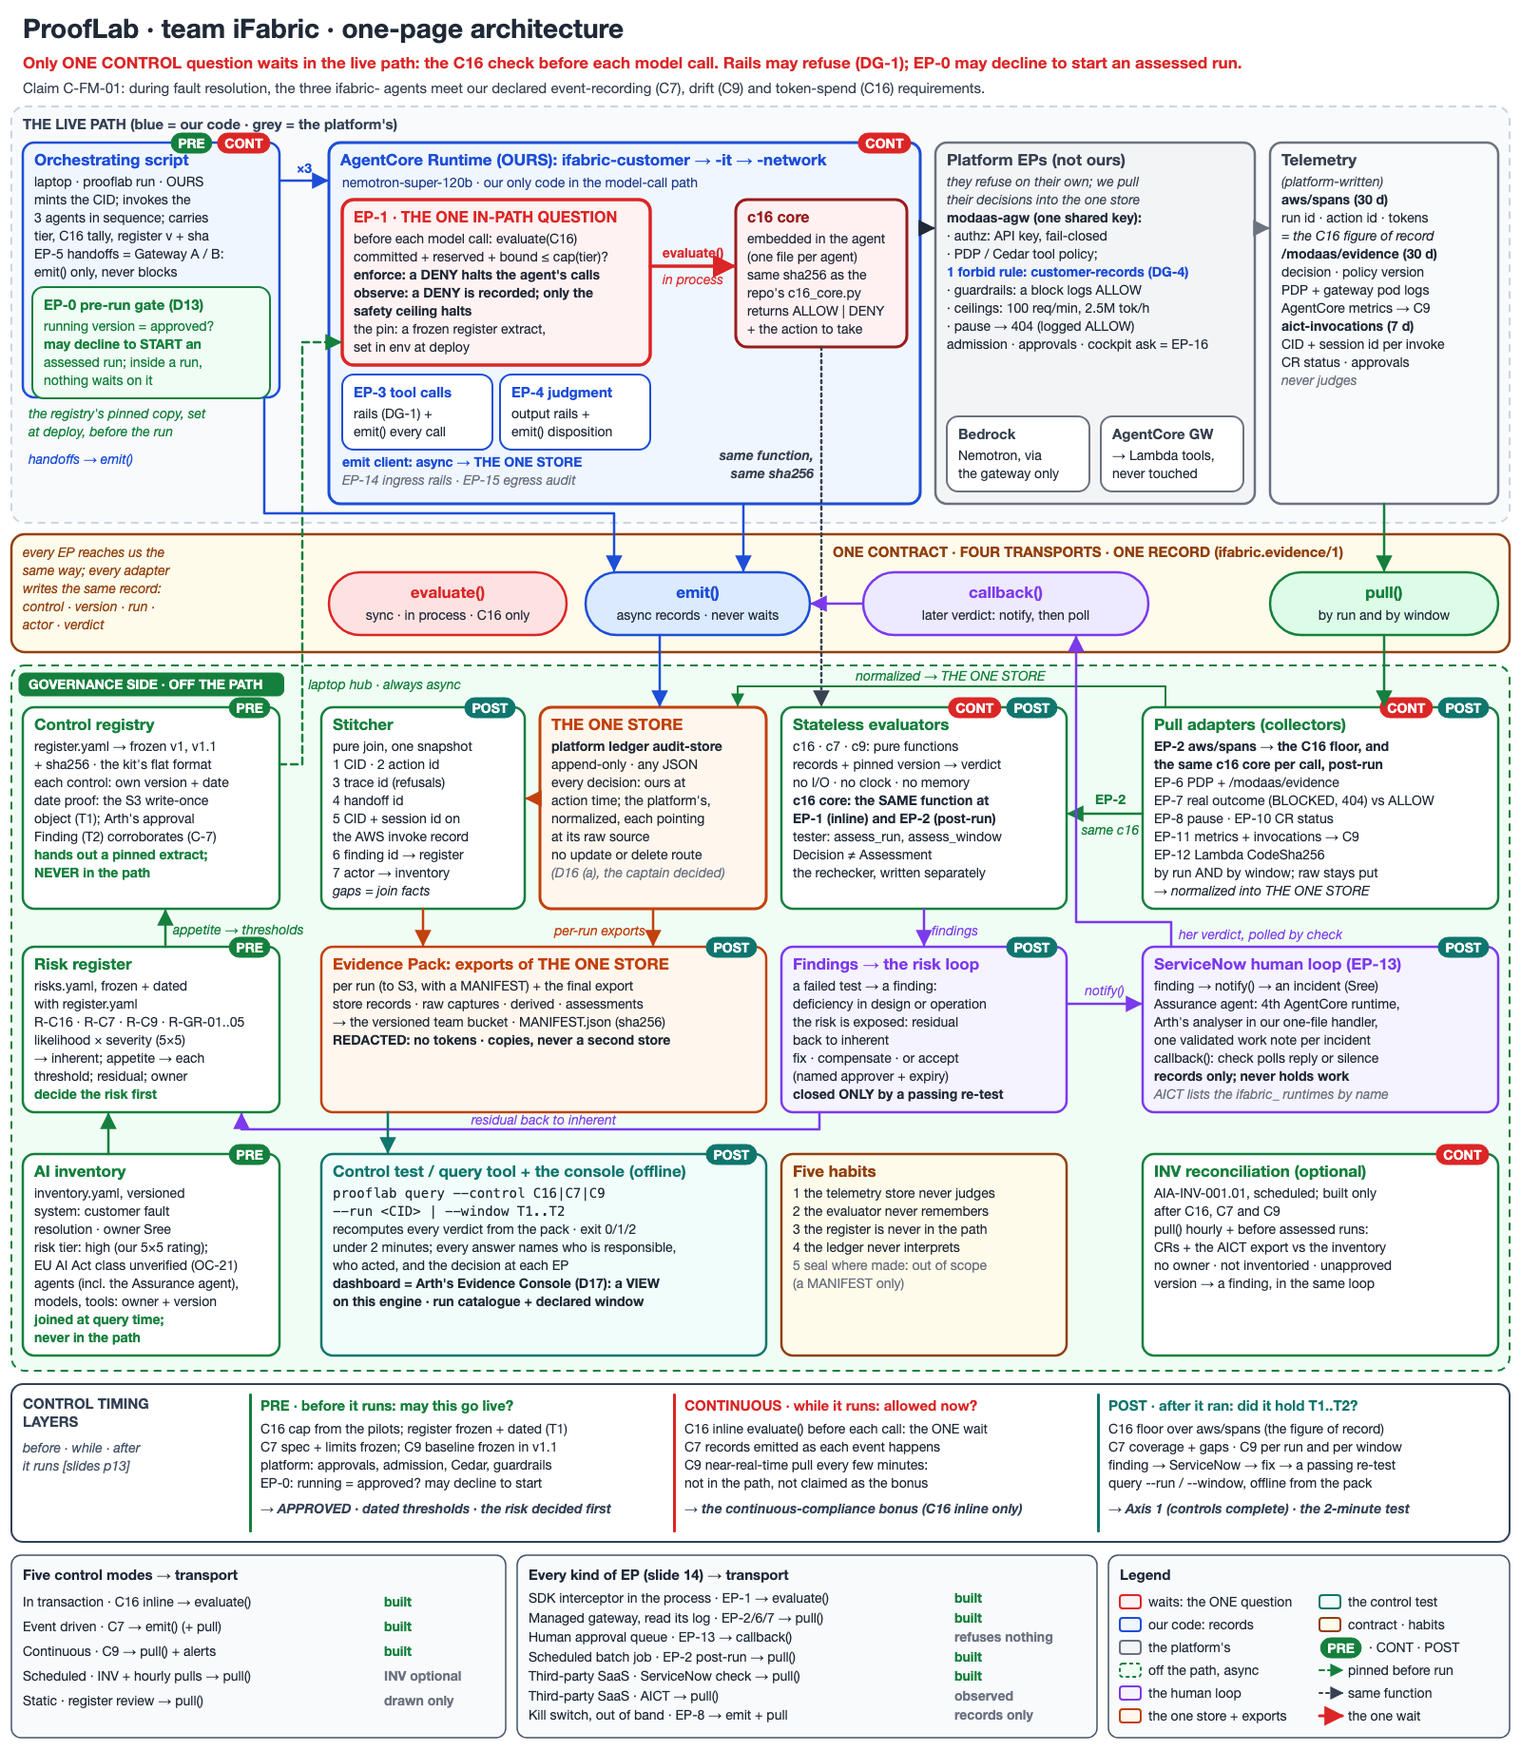
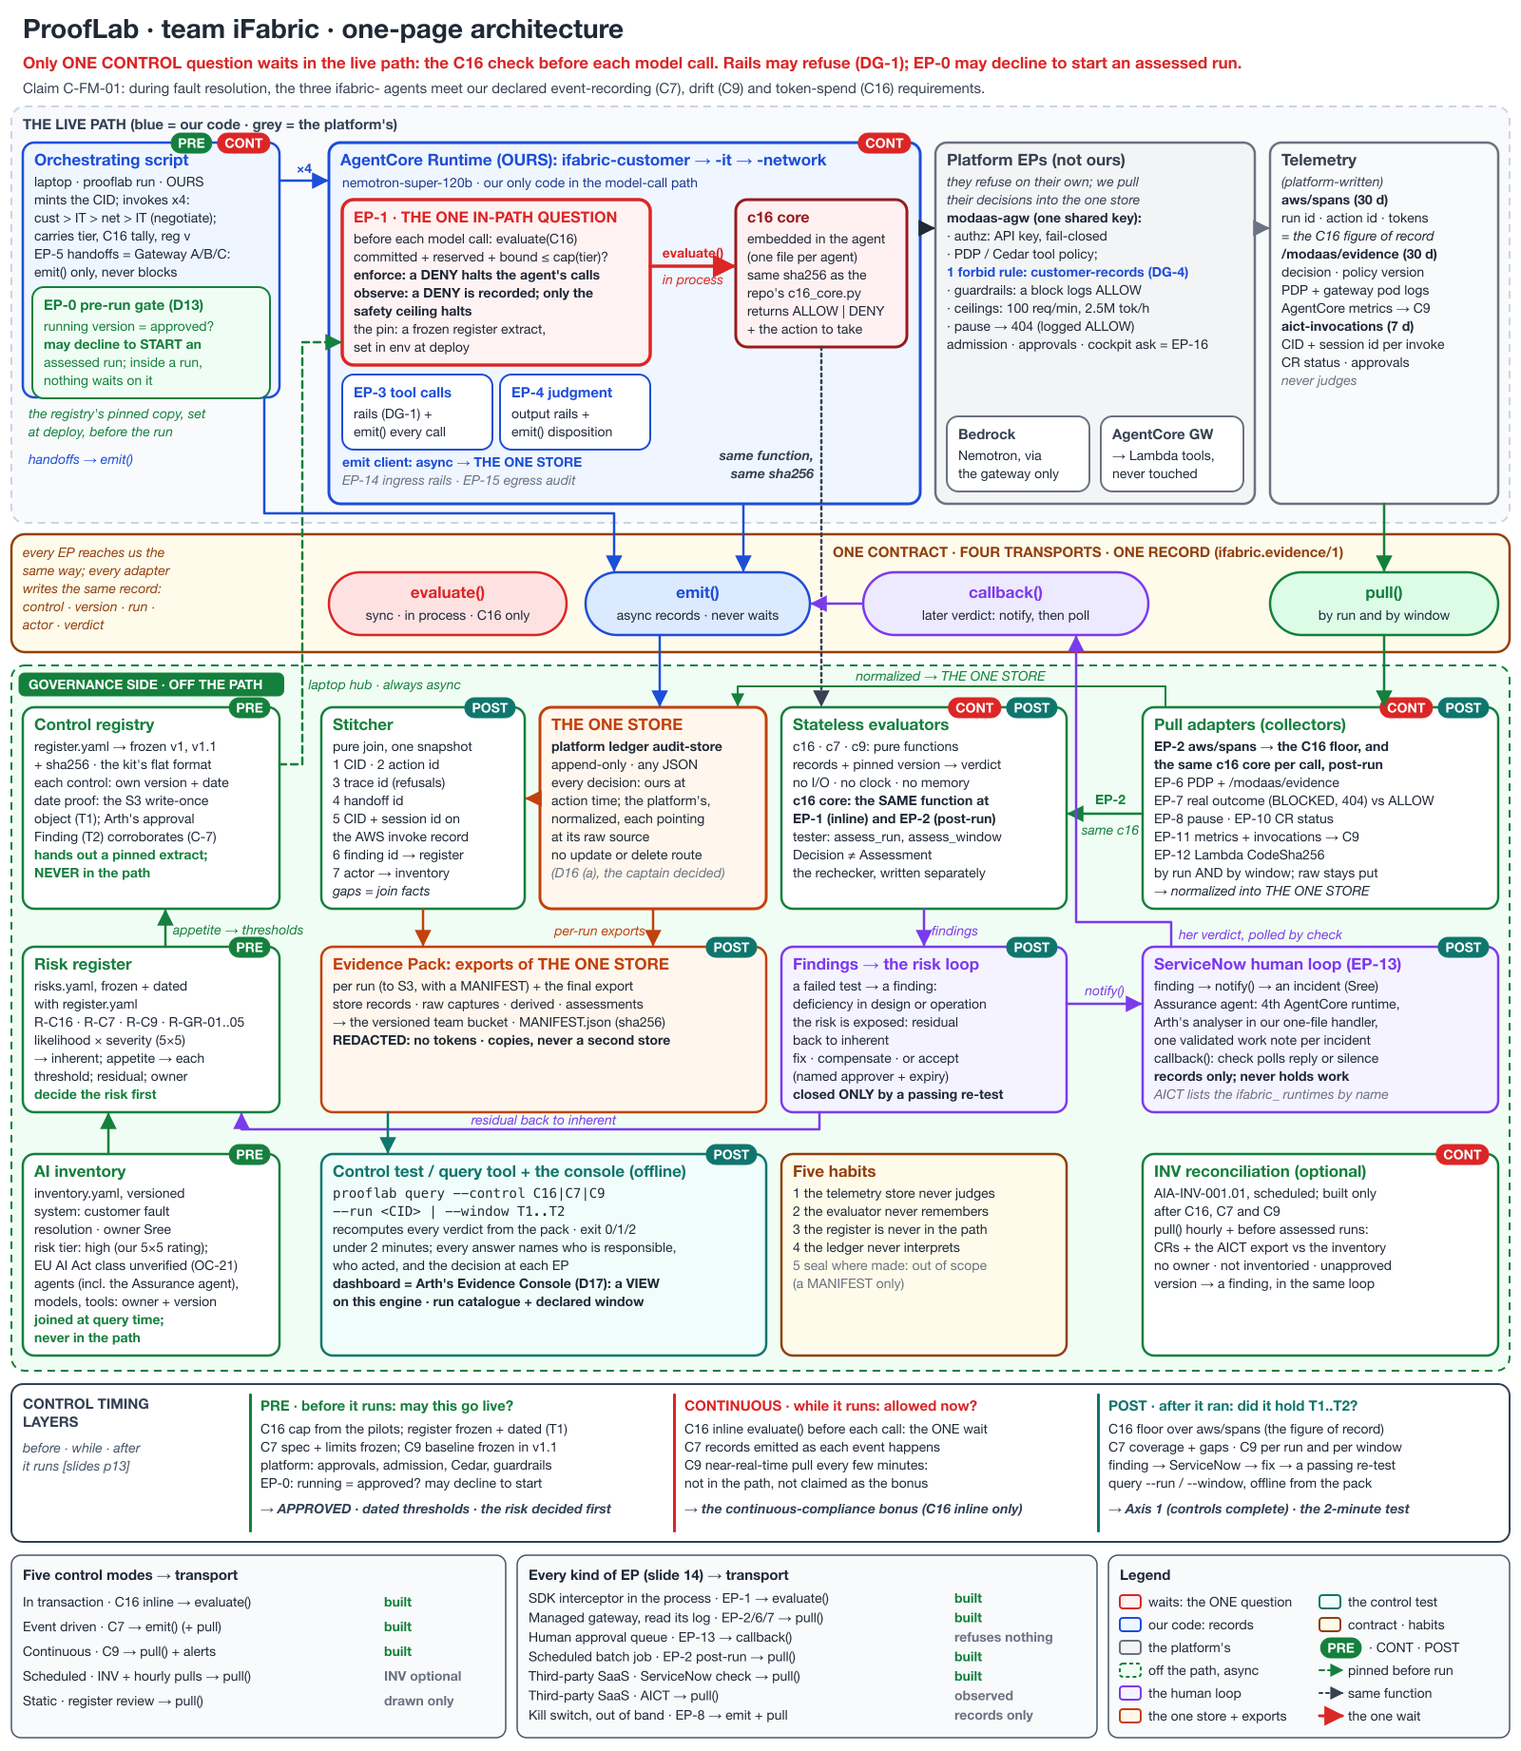
PR-28 docs: Gateway C sweep (ARCH 2.2 diagram, EP-5, 5.2 C7 placement via workflow_map, 6.1 EP-5 row, 7.2; one-page.md + regenerated one-page.svg + sketch.png render; security matrix; run-of-show): three handoffs h1/h2/h3, four invocations customer -> IT -> network -> IT (negotiate)

diff --git a/architecture/work/11a-one-page-svg-gen.py b/architecture/work/11a-one-page-svg-gen.py
@@ -161,10 +161,10 @@ ROW_TOP, ROW_H = 150, 380
 SX, SW = 24, 270
 sx, sy, sw_, sh = card(SX, ROW_TOP, SW, "Orchestrating script", [
     "laptop · prooflab run · OURS",
-    "mints the CID; invokes the",
-    "3 agents in sequence; carries",
-    "tier, C16 tally, register v + sha",
-    "EP-5 handoffs = Gateway A / B:",
+    "mints the CID; invokes x4:",
+    "cust > IT > net > IT (negotiate);",
+    "carries tier, C16 tally, reg v",
+    "EP-5 handoffs = Gateway A/B/C:",
     "emit() only, never blocks",
 ], BLUE, "#eff6ff", BLUE, chips=[("PRE", GREEN), ("CONT", RED)], h=268)
 card(SX + 10, ROW_TOP + 152, SW - 20, "EP-0 pre-run gate (D13)", [
@@ -258,7 +258,7 @@ card(TX, ROW_TOP, TW, "Telemetry", [
 
 # --- live-path arrows
 arrow([(SX + SW, ROW_TOP + 40), (RX - 2, ROW_TOP + 40)], BLUE)
-text((SX + SW + RX) / 2, ROW_TOP + 32, "×3", 14, "bold", BLUE, "middle", maxw=RX - SX - SW)
+text((SX + SW + RX) / 2, ROW_TOP + 32, "×4", 14, "bold", BLUE, "middle", maxw=RX - SX - SW)
 arrow([(RX + RW, ROW_TOP + 90), (PX - 2, ROW_TOP + 90)], INK)
 arrow([(PX + PW, ROW_TOP + 90), (TX - 2, ROW_TOP + 90)], GREY)
 

diff --git a/architecture/ARCHITECTURE.md b/architecture/ARCHITECTURE.md
@@ -160,9 +160,10 @@ And **five habits** keep it honest.
  │   C16 tally, register version + sha256; emit(handoff.sent / .received): never blocks     │
  │ EP-0 preflight (D13): each agent's running version = an approved one? It may decline     │
  │   to START an assessed run. Nothing inside a run waits on it                             │
- │ Gateway A / Gateway B of the brief = its two handoffs (h1, h2): record only              │
+ │ Gateway A/B of the brief + our Gateway C = its three handoffs (h1, h2, h3): record only  │
  └───────┬──────────────────────────────────────────────────────────────────────────────────┘
-         │ InvokeAgentRuntime x3, in sequence: customer -> it -> network (CID + session id)
+         │ InvokeAgentRuntime x4, in sequence: customer -> it -> network -> it (Gateway C: ONE IT
+         │   invocation that negotiates; each model call in it passes C16 (EP-1) and the rails) (CID + session id)
          │ (EP-16, observed: the cockpit's ask API can invoke any agent with no envelope)
          v
  ┌─ AgentCore Runtime: ifabric-customer | ifabric-it | ifabric-network (OURS) ──────────────┐
@@ -398,7 +399,7 @@ Adapter ids are EP ids. "In path" means our code can make the work wait. Only EP
   - `handoff.received`: status, disposition, halted, duration, tally out;
   - the run lifecycle: `run.started` with the `ifabric-run-…` CID, agent versions, register version and sha256, `run.condition`, provenance and tier decision; then `run.finished`.
 - **Where it runs:** the laptop (§7.2).
-- **Gateway A and Gateway B** of the brief (customer → Gateway A → IT → Gateway B → network) **are these two handoffs**, h1 (customer → IT) and h2 (IT → network): record-only events, never a block or a strip (decided by the captain). PII is masked at the receiving agent's input (EP-14; DG-2), and `handoff.sent` keeps the raw payload's sha256.
+- **Gateway A and Gateway B** of the brief (customer → Gateway A → IT → Gateway B → network) **are two of its three handoffs**, h1 (customer → IT) and h2 (IT → network); **Gateway C** (PR-28) is h3 (network → IT, the negotiation): record-only events, never a block or a strip (decided by the captain). A full run is four invocations: customer → IT → network → IT (negotiate). PII is masked at the receiving agent's input (EP-14; DG-2), and `handoff.sent` keeps the raw payload's sha256.
 - **Status:** build.
 
 #### EP-6 · Gateway authorization: `modaas-authz` + PDP/Cedar
@@ -1338,11 +1339,11 @@ Coverage and gap are separate verdicts, and both must hold.
 - **From the gateway (EP-2):** one `model.call` per model span (`listener = "llm"`) and one `tool.call` per MCP span with `mcp.method.name = "tools/call"` (MCP spans sit on listener `http`), with run id = CID, keyed by action id. MCP session set-up (`initialize`, `notifications/initialized`, `tools/list`) is excluded by that attribute (OC-4, closed [06 G1]).
 - **From `/modaas/evidence` and EP-7:** refusals (DENY records with the CID; the pause 404 joined by trace id). Each needs a `refusal` record from the acting agent, with the real status.
 - **From the frozen workflow spec in the register (`workflow_events`):**
-  - `run.started`;
-  - per agent: `handoff.sent`, `invocation.received`, `intent`, `judgment`, `handoff.received`;
+  - where each name is expected is set in one place, `prooflab/query/workflow_map.py` (PR-28), from the script's own EP-5 records (a full run: h0 customer, h1 IT (Gateway A), h2 network (Gateway B), h3 IT (Gateway C), four invocations):
+  - the orchestrator: `run.started` and `run.finished` once per run; `handoff.sent` once per handoff (h1, h2, h3); `handoff.received` once per invocation (h0 included);
+  - per agent invocation (C7 key `<agent>|<event>@<hN>`, so IT's two invocations are expected separately): `invocation.received`, `intent`, `judgment`;
   - `escalation` when the disposition is escalate;
-  - `negotiation` from the IT agent on Gateway C (PR-28: network → IT, h3, after the network answers);
-  - `run.finished`;
+  - `negotiation` from the IT agent on its Gateway C invocation only (network → IT, h3, after the network answers): ONE IT invocation, and each model call inside it passes C16 (EP-1) and the rails;
   - one C16 `decision` per model call when EP-1 is deployed: one per span, **plus one per cancelled call** (`outcome.real: CANCELLED_C16`), because only a halted call has no span. In `observe` a DENY is still served, so it has a span and is counted once (I-02, B6);
   - one EP-0 `decision` per agent when D13's gate is on (G-08).
 - **After a C16 stop (`workflow_events_after_stop`):**
@@ -1557,7 +1558,7 @@ Exactly one row uses `evaluate()` [02 R-P-10]. Every row has a test or a gap-lis
 | Our runtime, invocation | A second invocation with a `handoff.id` already in flight is refused (an idempotency precondition, not a control question) [05 AR-18] | Us (the duplicate does no work) | `emit` (`lifecycle` record) | `duplicate-invocation`, with the session id | T-DUP-01 (the same `handoff.id` twice → the second refused and recorded) | Build |
 | EP-3: our runtime, tool call | Declared-tool scope (X-01, X-02); arguments (X-03); repetition (X-04, FLAG); quarantine (X-05); tool output screened and enveloped (T-01–T-06; instructions never obeyed) | **Our rails** (DG-1); Cedar at the PDP | `emit` | Action records (declared or not, real status); `suspicious_tool_output`; a `rail_decision` per BLOCK / MODIFY / FLAG | ADV-H-02; ADV-R-01 (leg 1: our rails refuse; leg 2: the PDP refuses) | Build (in-agent prevention for our agents through the rails, DG-1; for every other caller only through a Cedar rule on the called tool, D15, so gap 3 stays for the platform) |
 | EP-4: judgment | J2: JSON-in-text validated by code (§7.1); precedence rules; the output rails O-01–O-07 (a disposition only moves toward safety; no secret leaves) | **Our rails** (DG-1), recorded | `emit` | Judgment record with deciding evidence and reason | ADV-H-04; the S1/S2/S3 dispositions | Build |
-| EP-5: orchestrating script | Handoff records (from → to, payload digest, classification, `runtime.session_id`); tally carriage; exactly one invocation per handoff (§7.2) | Nobody (records) | `emit` / `pull` | Handoff records, TIMEOUT included (the staleness test moved to EP-0's `approval.check_versions`, §3.4) | T-HO-01 handoff completeness; ADV-R-06; ADV-R-10 (fallback) | Build |
+| EP-5: orchestrating script | Handoff records (from → to, payload digest, classification, `runtime.session_id`) for the three handoffs (Gateway A h1, B h2, C h3: four invocations, customer → IT → network → IT); tally carriage; exactly one invocation per handoff (§7.2) | Nobody (records) | `emit` / `pull` | Handoff records, TIMEOUT included (the staleness test moved to EP-0's `approval.check_versions`, §3.4) | T-HO-01 handoff completeness; ADV-R-06; ADV-R-10 (fallback) | Build |
 | EP-6: gateway authz + PDP/Cedar | API key (fail-closed); Cedar tool policy | Platform | `pull`; **configure** a forbid rule in an existing ToolConfig's `spec.access.cedarPolicy` (D15 and DG-4, decided by the captain: `customer-records`; it applies to every caller) | DENY / ALLOW, policy id and version, principal | SP-1 (one allowed and one forbidden call; both PDP replicas + `/modaas/evidence`) [07 SP-1]; ADV-R-01 Cedar DENY end to end; ADV-R-07 no-key call → 403 (optional) | Observe + configure (D15 and DG-4 decided) |
 | EP-7: Bedrock guardrails | One guardrail per model alias, fixed: PROMPT_ATTACK on input (HIGH); no output, topic, word or grounding filter, and PII only on the `-helper` alias; no guardrail on tool routes at all [guardrails/02 GR-06, GR-09]. Not editable by us, not chosen per call [07 GS-15, GS-16] | Platform | `pull`: the span shows HTTP 200, 0/0 tokens and cost 0. No span carries a finish reason, so BLOCKED is an **inference**, labelled so, and corroborated by EP-1's own `content_filter` record through the action id [06 A5], and by the AWS-written `ConverseStream` record's `guardrailTrace.actionReason = "Guardrail blocked."` (joined by time, role and model) [10-f11 §4.4] | BLOCKED next to the platform's ALLOW; the guardrail id and version per run | ADV-H-01 prompt attack in the ticket: **P0, straight after N1** (the L1 gate's "one guardrail block on record") [04 E-09] | Observe (gap 4 answered in our store) |
 | EP-8: kill switch | Pause a model or tool: the route is withdrawn. **An AgentConfig pause is a record, not a stop**: the runtime stays READY and direct invokes still work [07 GS-14] | Platform (route withdrawn), for models and tools | `emit` (requested) + `pull` (effective; the 404 joined by trace id) | Requested vs effective time; real outcome | ADV-R-08 **model pause mid-run** (Rogue containment, P2, a declared Rogue window, the user's explicit OK) [04 E-09]; T-PRE-02 (EP-0 declines a run on a paused AgentConfig) | Observe |
@@ -1742,7 +1743,7 @@ It also records Hostile/Rogue events we **observe** in the window, since who inj
 - So before every assessed run: the runtime's `lastUpdatedAt` is later than the last patch, the status is READY, and the agent echoes its pinned version and sha256 in its response (§3.3 H1). EP-0 reads the CR phase only between patches, never during one.
 
 ### 7.2 The orchestrating script (`prooflab run`, EP-5)
-It runs on the laptop as WSParticipantRole. It invokes each runtime through `InvokeAgentRuntime`, in sequence (customer → IT → network). It passes the CID in the body and as baggage, plus one run `traceparent`, as `ask_agent.py` does today [01 row A6].
+It runs on the laptop as WSParticipantRole. It invokes each runtime through `InvokeAgentRuntime`, in sequence (customer → IT → network → IT: four invocations on a full run, the last one Gateway C's negotiation). It passes the CID in the body and as baggage, plus one run `traceparent`, as `ask_agent.py` does today [01 row A6].
 
 **Exactly one invocation per handoff (must-fix)** [05 AR-18]. `ask_agent.py`'s settings are not copied: its 180 s read timeout plus the AWS CLI's default retries re-sent S2's IT invocation. The AWS-written records show two IT invocations of one session, and two ledger `intent` records 180 s apart; S2's 1,999,001 tokens span both (gap 8). So:
 - `AWS_MAX_ATTEMPTS=1` and `AWS_RETRY_MODE=standard`: no CLI retry;
@@ -1772,7 +1773,7 @@ It runs on the laptop as WSParticipantRole. It invokes each runtime through `Inv
 2. **Mint the CID:** `ifabric-run-<epoch>-<hex>` for every run of our trio (subject, pilot, baseline), so no assessed run looks like a reference run (§4.2). Test traffic uses `ifabric-test-…`; adversarial runs use `ifabric-adv-…`.
 3. **Tier decision** (if tiers) → a `decision` record.
 4. **`run.started`.**
-5. **Per agent:** `handoff.sent` → invoke → `handoff.received` (status, disposition, halted, duration, tally out) → forward the tally. The two handoffs are the brief's Gateway A (h1, customer → IT) and Gateway B (h2, IT → network): record-only (EP-5).
+5. **Per agent:** `handoff.sent` → invoke → `handoff.received` (status, disposition, halted, duration, tally out) → forward the tally. The handoffs are the brief's Gateway A (h1, customer → IT) and Gateway B (h2, IT → network), then our Gateway C (h3, below): record-only (EP-5).
    **Gateway C (PR-28):** after the network answers, `handoff.sent` h3 (network → IT, the raw payload's sha256) → ONE more IT invocation with `{"negotiate": {correlation_id, proposal, traceparent, handoff_id}}` plus the envelope (the proposal = the network's structured resolution and change risk) → `handoff.received`. The IT agent evaluates it through rails → C16 → model → J2 and records its position (agree | disagree | gather-evidence | escalate) as a `negotiation` judgment record; never a canned agree. The run's bound adds one IT call (`budget.json` `gateway_c_extra`).
 6. **`run.finished`.**
 7. **Append the run index line:** CID, agent versions, register version and sha256, mode, condition, provenance, times.

diff --git a/evidence-templates/security-matrix.md b/evidence-templates/security-matrix.md
@@ -12,7 +12,7 @@
 | EP-2 | After the run, over the gateway's log | No: the second placement of the same c16 core | Nobody | Replayed decisions, reconciled with EP-1's | EP-2 replay tests | `<>` |
 | EP-3 | Our runtime, tool call | Yes (DG-1): the tool rails may refuse or modify (X-01/X-02 declared-tool scope, X-03 arguments; X-04 repetition FLAG; T-01–T-06 tool-output screening), each BLOCK / MODIFY an emitted `rail_decision`; a platform refusal stays the PDP's (Cedar, EP-6) | Our rails; Cedar at the PDP | Action records, `suspicious_tool_output`, `rail_decision` | ADV-H-02; ADV-R-01 (leg 1 our rails, leg 2 the PDP) | `<>` |
 | EP-4 | Judgment (J2) | Output rails move a disposition only toward safety | Our rails, recorded | Judgment record with deciding evidence and reason | ADV-H-04 | `<>` |
-| EP-5 | Orchestrating script, handoffs | No: records only | Nobody | Handoff records, timeouts included; one invocation per handoff | T-HO-01; ADV-R-06; ADV-R-10 | `<>` |
+| EP-5 | Orchestrating script, handoffs (Gateway A h1, B h2, C h3; four invocations) | No: records only | Nobody | Handoff records, timeouts included; one invocation per handoff | T-HO-01; ADV-R-06; ADV-R-10 | `<>` |
 | EP-6 | Gateway authorization and PDP/Cedar | Yes: API key and Cedar tool policy | Platform | DENY / ALLOW, policy id, principal | SP-1; ADV-R-01; ADV-R-07 | `<>` |
 | EP-7 | Bedrock guardrails | Yes (platform): prompt-attack filter on input. BLOCKED is an inference from the span (HTTP 200, 0/0 tokens), corroborated by our own record and the AWS-written record | Platform | BLOCKED next to the platform's ALLOW (gap 4) | ADV-H-01 | `<>` |
 | EP-8 | Kill switch | Models and tools: yes. An AgentConfig pause is a record, not a stop | Platform | Requested vs effective time | ADV-R-08; T-PRE-02 | `<>` |

diff --git a/architecture/one-page.md b/architecture/one-page.md
@@ -13,9 +13,9 @@ This is the text of `architecture/one-page.svg` (1600×1842, self-contained, eve
 ## The live path (blue = our code, grey = the platform's)
 
 **Orchestrating script** (laptop, `prooflab run`; ours) · PRE + CONT:
-- mints the run id (CID) and invokes the three agents in sequence (×3);
+- mints the run id (CID) and invokes the three agents in sequence, four invocations (×4): customer → IT → network → IT (Gateway C: one IT invocation that negotiates; each model call in it passes C16 (EP-1) and the rails);
 - carries the tier, the C16 tally, and the register version and sha256;
-- EP-5 handoffs (the brief's **Gateway A and Gateway B**: customer → IT, IT → network) go to `emit()` only, never blocking (the blue arrow from the script to the `emit()` pill);
+- EP-5 handoffs (the brief's **Gateway A and Gateway B**: h1 customer → IT, h2 IT → network; our **Gateway C**: h3 network → IT, the negotiation) go to `emit()` only, never blocking (the blue arrow from the script to the `emit()` pill);
 - **EP-0, the pre-run gate (D13, decided by the captain: it blocks assessed runs):** is each agent's running version an approved one? It may decline to **start** an assessed run; inside a run, nothing waits on it.
 
 **AgentCore Runtime (ours):** `ifabric-customer` → `ifabric-it` → `ifabric-network`, on `nemotron-super-120b`; our only code in the model-call path. CONT.

diff --git a/docs/run-of-show.md b/docs/run-of-show.md
@@ -31,7 +31,7 @@ Total: 15:00. Steps 1 to 8 end at 14:00; the last minute is questions.
   Human Loop, Enforcement points, Gaps and Runs. Where the guide names Overview, Agent Trail, Live
   or Adversarial and the console build lacks that screen, show the pack file or the CLI answer
   instead and say which it is. Do not present a missing screen as built.
-- **C-4, handoffs:** "every model and tool call crossed the gateway; every handoff is a recorded EP-5 event."
+- **C-4, handoffs:** "every model and tool call crossed the gateway; every handoff is a recorded EP-5 event." (three handoffs: Gateway A h1 customer → IT, B h2 IT → network, C h3 network → IT, the negotiation; four invocations, and each model call in the negotiating IT invocation passes C16 and the rails)
 - **C-5, separation of duties:** "nobody checks their own work alone: Arth reviews before the owner approves." The governance-assurance role is vacant, stated in the gap list.
 - **C-6, live inline decision:** one `enforce` run live with `python3 -m prooflab tail` at the slot,
   if AWS credentials are valid then. Otherwise play the recorded run and label it as recorded.
